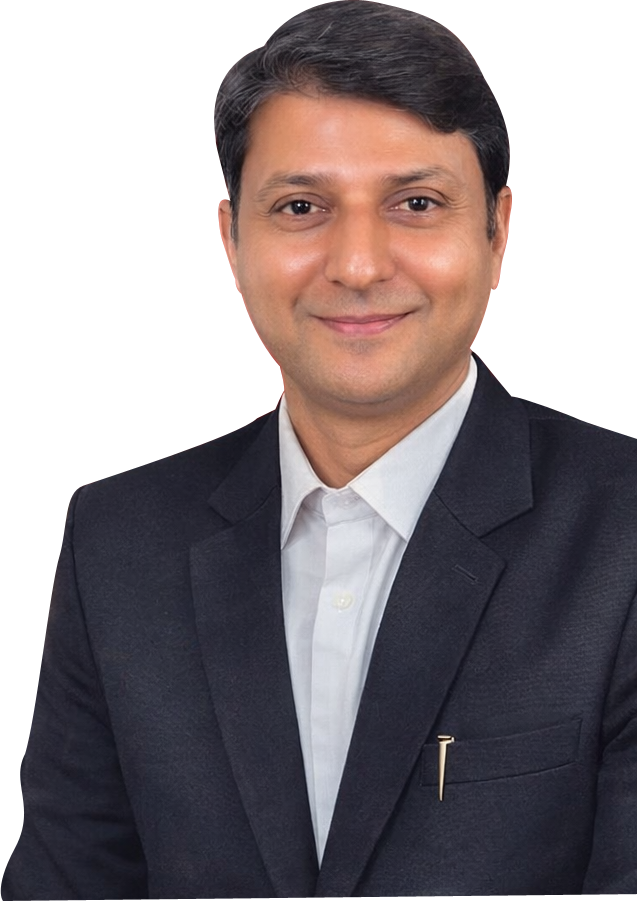
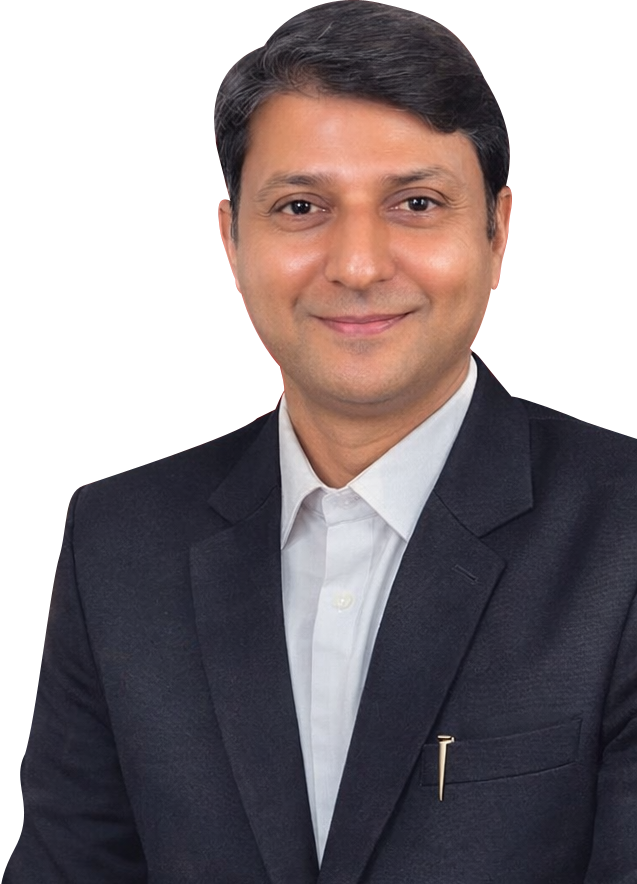
image change for about

diff --git a/src/pages/About.vue b/src/pages/About.vue
@@ -21,7 +21,7 @@
         <p class="text-slate-600 leading-8" :class="lineHeightClass">{{ t('introP2') }}</p>
       </div>
 
-      <div class="h-125 rounded-3xl bg-[url('https://images.unsplash.com/photo-1589829545856-d10d557cf95f?q=80&w=1400&auto=format&fit=crop')] bg-cover bg-center shadow-xl" />
+      <div class="h-125 rounded-3xl bg-[url('@/assets/photo/image2.png')] bg-cover bg-center shadow-xl" />
     </section>
 
     <!-- Mission Vision -->
